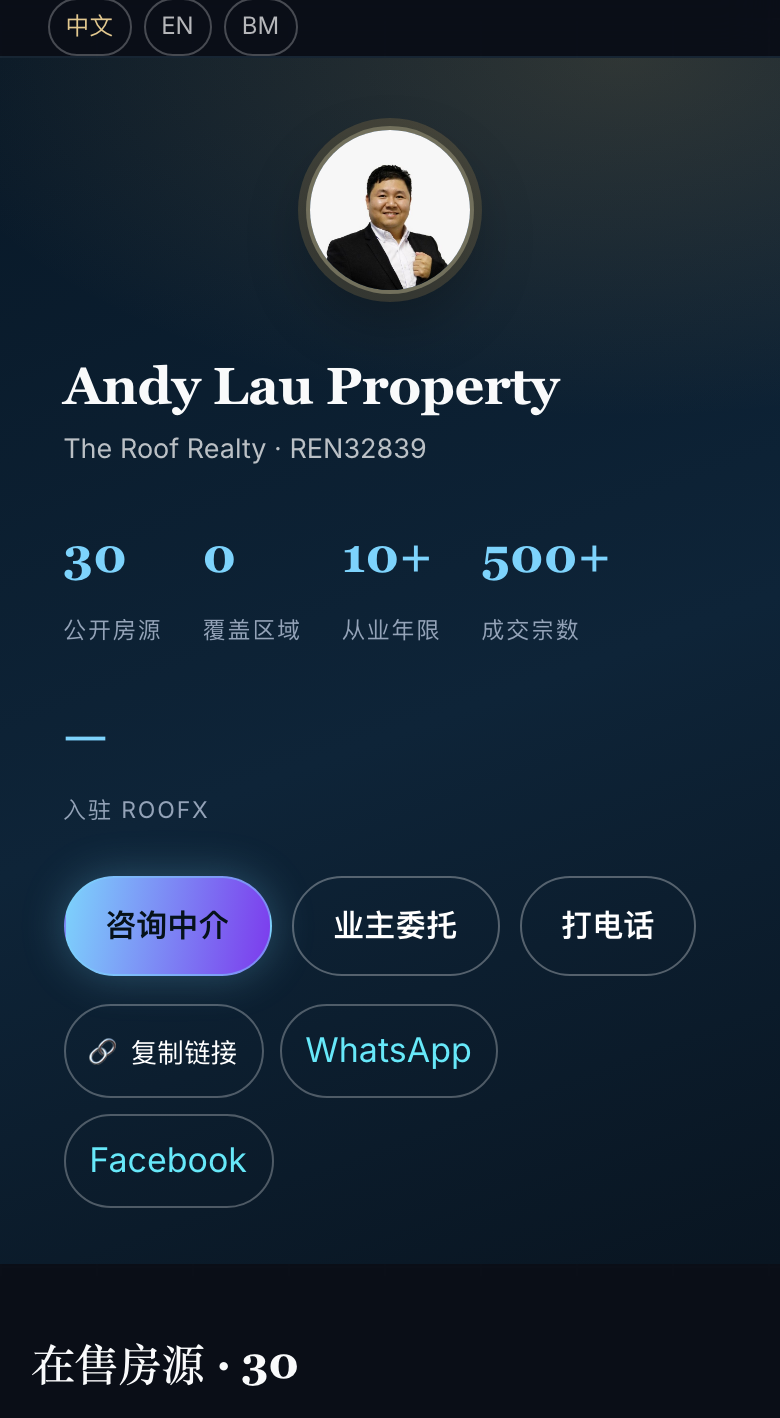
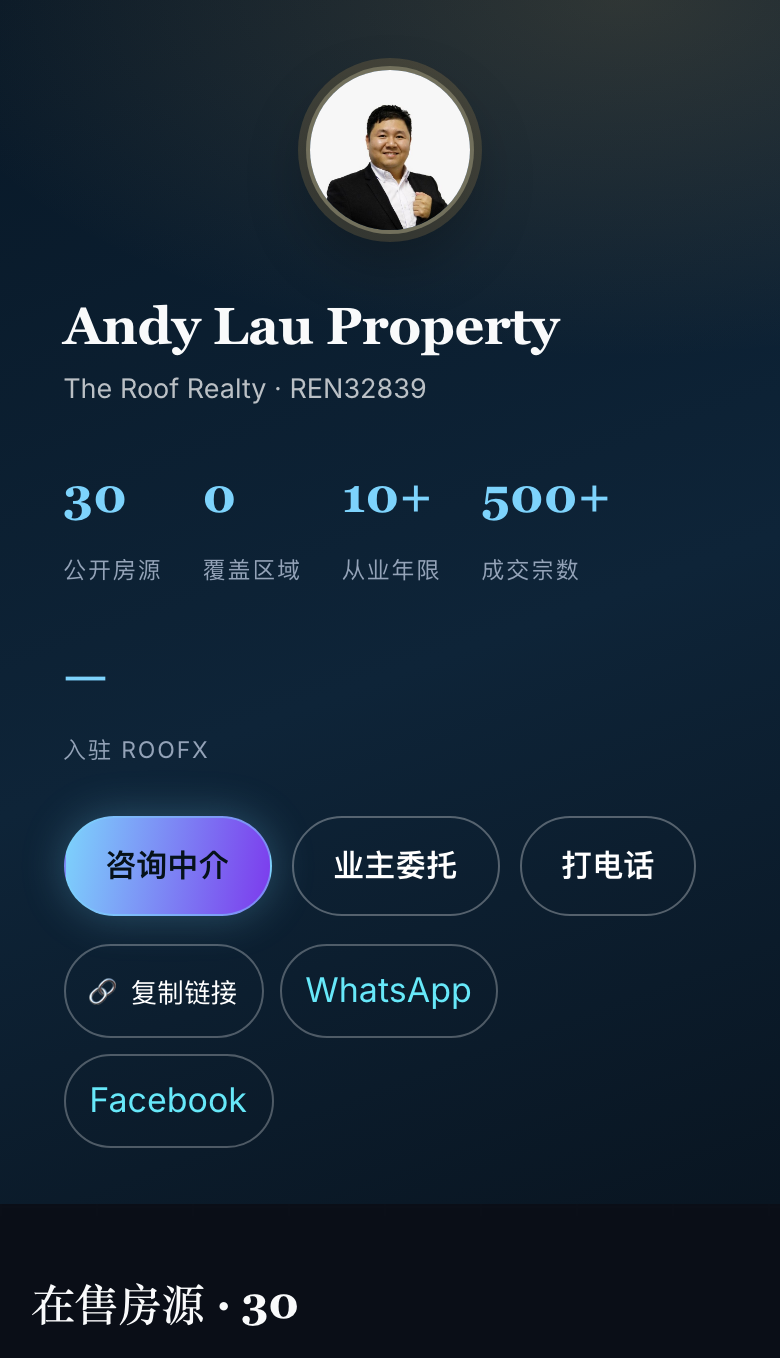
fix: 电脑与手机样机改为并排，去掉重叠

diff --git a/web/agentsite/index.html b/web/agentsite/index.html
@@ -57,8 +57,8 @@ h1 em{font-style:normal;color:var(--gold2)}
 .fact b{color:#F4D77F}
 .hero-note{font-size:11px;color:#93A8B8;margin-top:12px}
 /* mock */
-.mock{position:relative;min-height:380px;display:flex;align-items:flex-end;justify-content:center}
-.laptop{width:100%;max-width:520px;background:#081521;border:1px solid rgba(201,162,39,.35);border-radius:14px;padding:9px;box-shadow:0 32px 70px rgba(0,0,0,.38);transform:perspective(1200px) rotateY(-3deg) rotateX(2deg)}
+.mock{position:relative;min-height:380px;display:flex;align-items:flex-end;justify-content:center;gap:12px}
+.laptop{width:auto;flex:1 1 auto;min-width:0;max-width:410px;background:#081521;border:1px solid rgba(201,162,39,.35);border-radius:14px;padding:9px;box-shadow:0 32px 70px rgba(0,0,0,.38);transform:perspective(1200px) rotateY(-3deg) rotateX(2deg)}
 .laptop .screen{background:#07131F;border-radius:8px;overflow:hidden;aspect-ratio:16/10;border:1px solid rgba(255,255,255,.08);display:flex;flex-direction:column}
 .browserbar{height:24px;flex:0 0 24px;background:#0A1B2A;border-bottom:1px solid rgba(255,255,255,.08);display:flex;align-items:center;gap:5px;padding:0 9px}
 .browserbar i{width:5px;height:5px;border-radius:50%;background:#FF5F56;display:block}
@@ -67,8 +67,8 @@ h1 em{font-style:normal;color:var(--gold2)}
 .laptop .screen img{flex:1;min-height:0;width:100%;height:auto;object-fit:cover;object-position:top center}
 .laptop img{width:100%;height:100%;object-fit:cover;object-position:top center}
 .laptop:after{content:"";display:block;width:112%;height:9px;background:#C8D2DA;border-radius:0 0 12px 12px;margin:7px -6% 0;opacity:.6}
-.phone{position:absolute;right:2%;bottom:-16px;width:132px;border:7px solid #07131F;border-radius:26px;overflow:hidden;box-shadow:0 24px 48px rgba(0,0,0,.5);background:#07131F}
-.phone img{width:100%;height:270px;object-fit:cover;object-position:top center}
+.phone{position:static;flex:0 0 110px;width:110px;margin-bottom:8px;border:7px solid #07131F;border-radius:26px;overflow:hidden;box-shadow:0 24px 48px rgba(0,0,0,.5);background:#07131F}
+.phone img{width:100%;height:auto;object-fit:contain;object-position:top center}
 /* trust */
 .trust{background:var(--cream);border-bottom:1px solid var(--line)}
 .trust-inner{display:grid;grid-template-columns:repeat(4,1fr);gap:0;padding:0}
@@ -162,7 +162,8 @@ footer{background:#07131F;color:#93A8B8;padding:30px 0;font-size:11.5px}
 @media(max-width:980px){
  .hero-inner{grid-template-columns:1fr;gap:26px;padding:42px 0}
  .mock{min-height:300px;margin-top:4px}
- .laptop{max-width:560px}
+ .laptop{max-width:520px;width:100%}
+ .phone{flex-basis:120px;width:120px}
  .features{grid-template-columns:1fr 1fr}
  .price-grid{grid-template-columns:1fr;max-width:560px;margin:0 auto}
  .price-card.pop{transform:none}
@@ -183,7 +184,7 @@ footer{background:#07131F;color:#93A8B8;padding:30px 0;font-size:11.5px}
  h1{font-size:40px}
  .hero-sub{font-size:14px}
  .hero{padding:0}
- .phone{width:110px;right:0;bottom:-10px}.phone img{height:225px}
+ .mock .phone{display:none}
  section{padding:44px 0}
  .features{grid-template-columns:1fr}
  .trust-inner{grid-template-columns:1fr 1fr}
@@ -204,7 +205,7 @@ footer{background:#07131F;color:#93A8B8;padding:30px 0;font-size:11.5px}
  .hero-actions .btn{width:100%}
  .mock{min-height:245px}
  .laptop{padding:6px}
- .phone{width:92px;border-width:5px;border-radius:20px}.phone img{height:190px}
+ .mock .phone{display:none}
  .trust-item .ic{font-size:16px}
 }
 </style>
